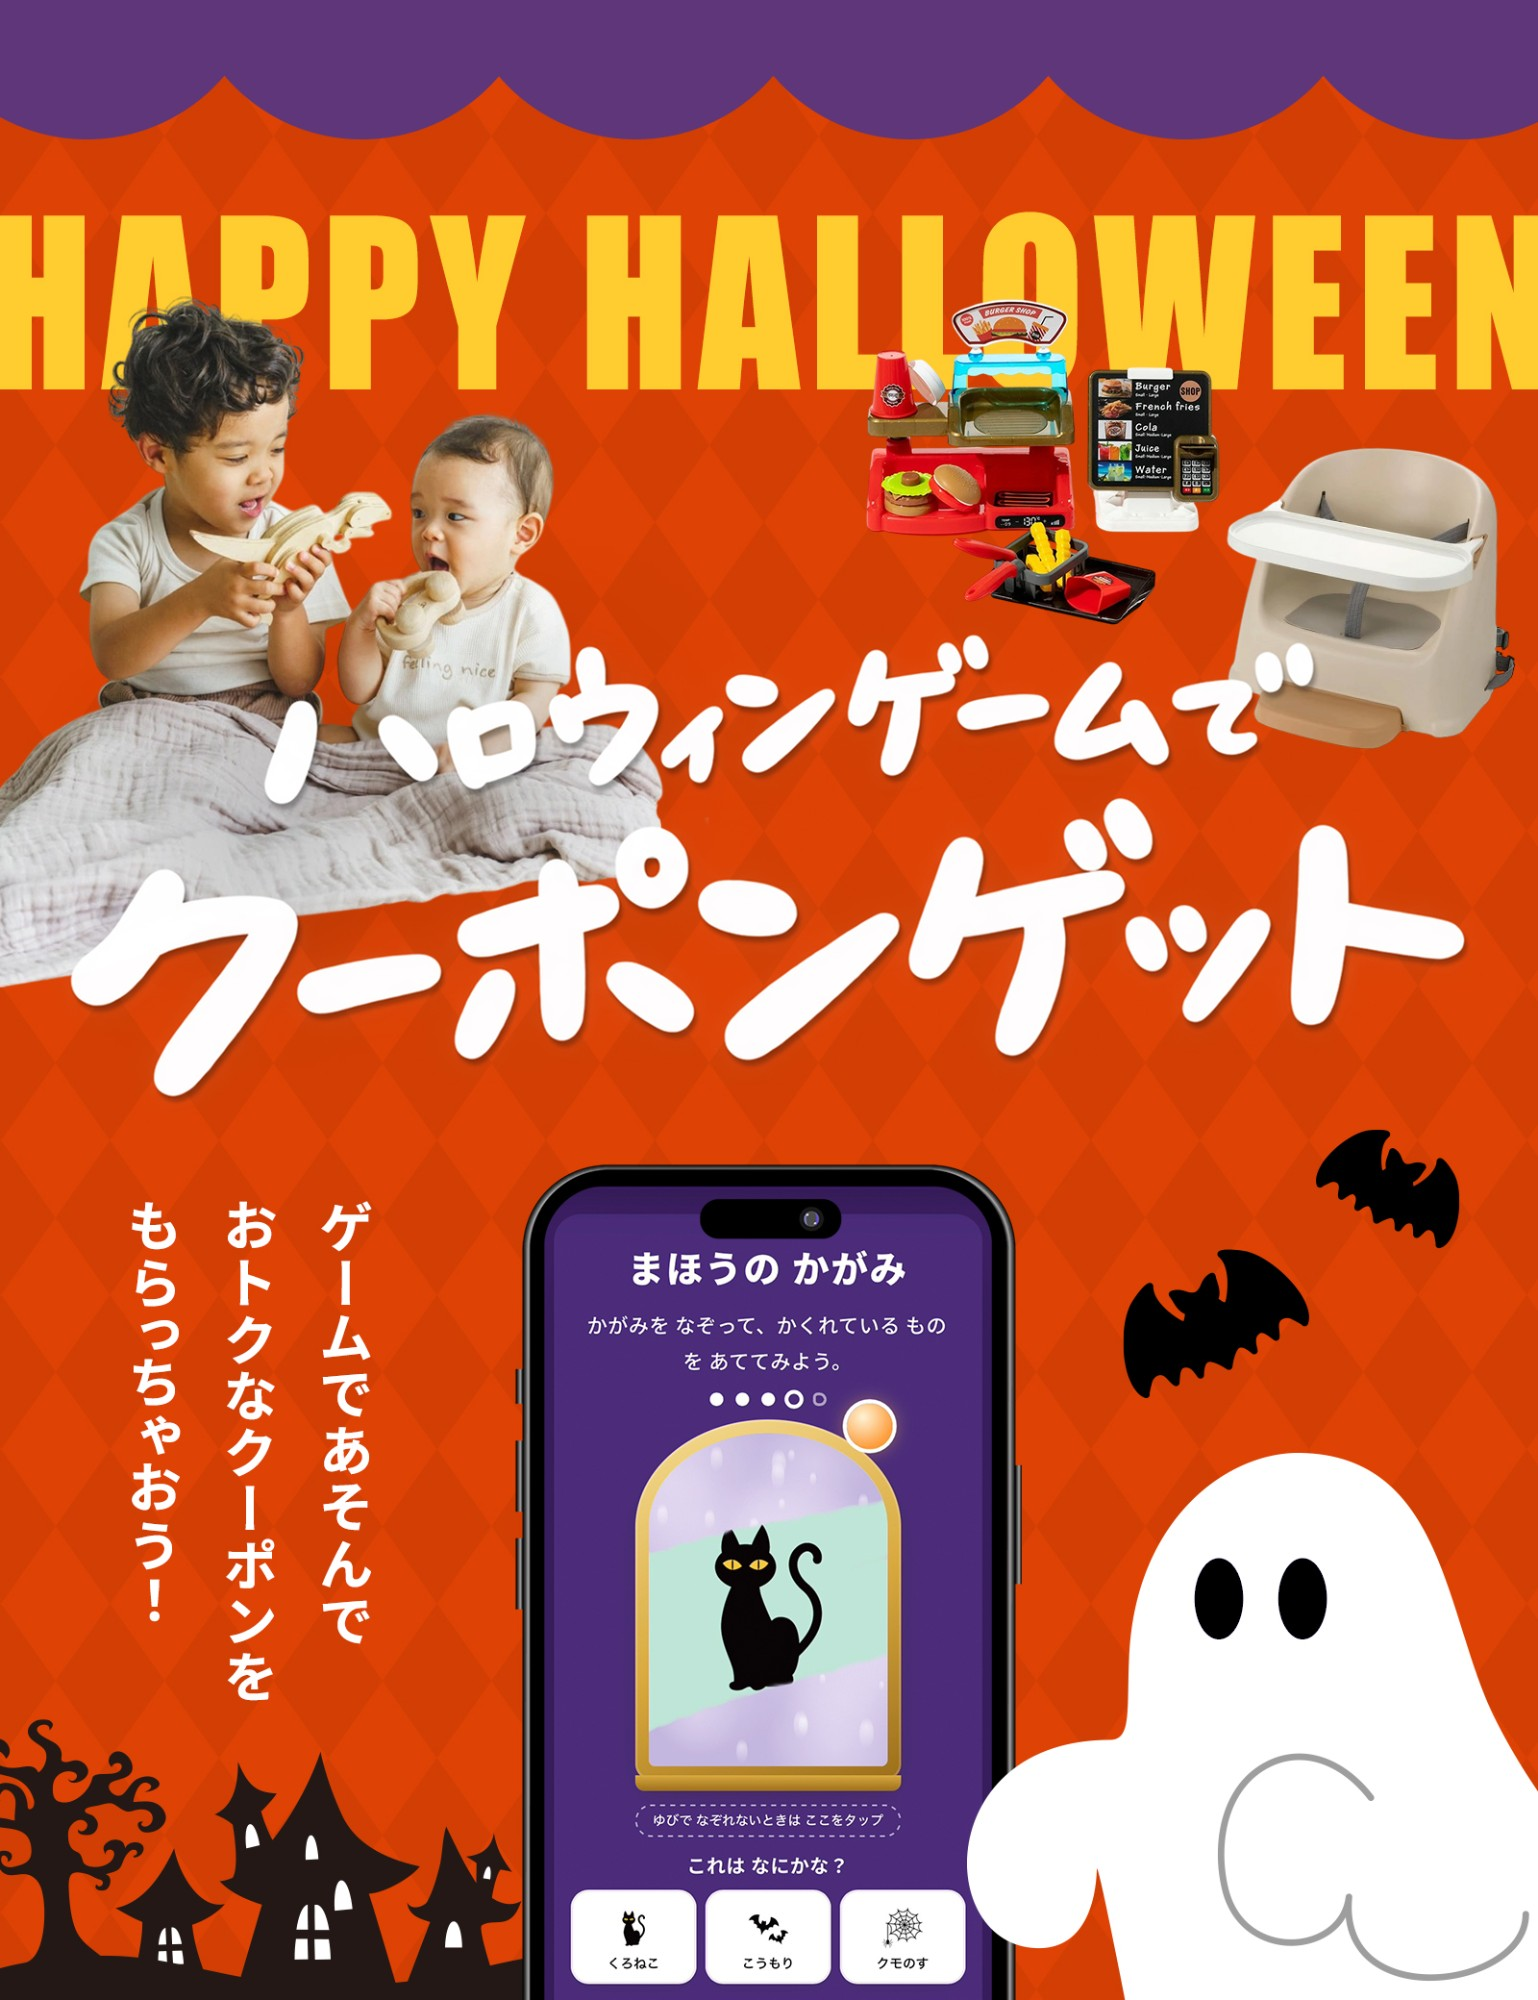
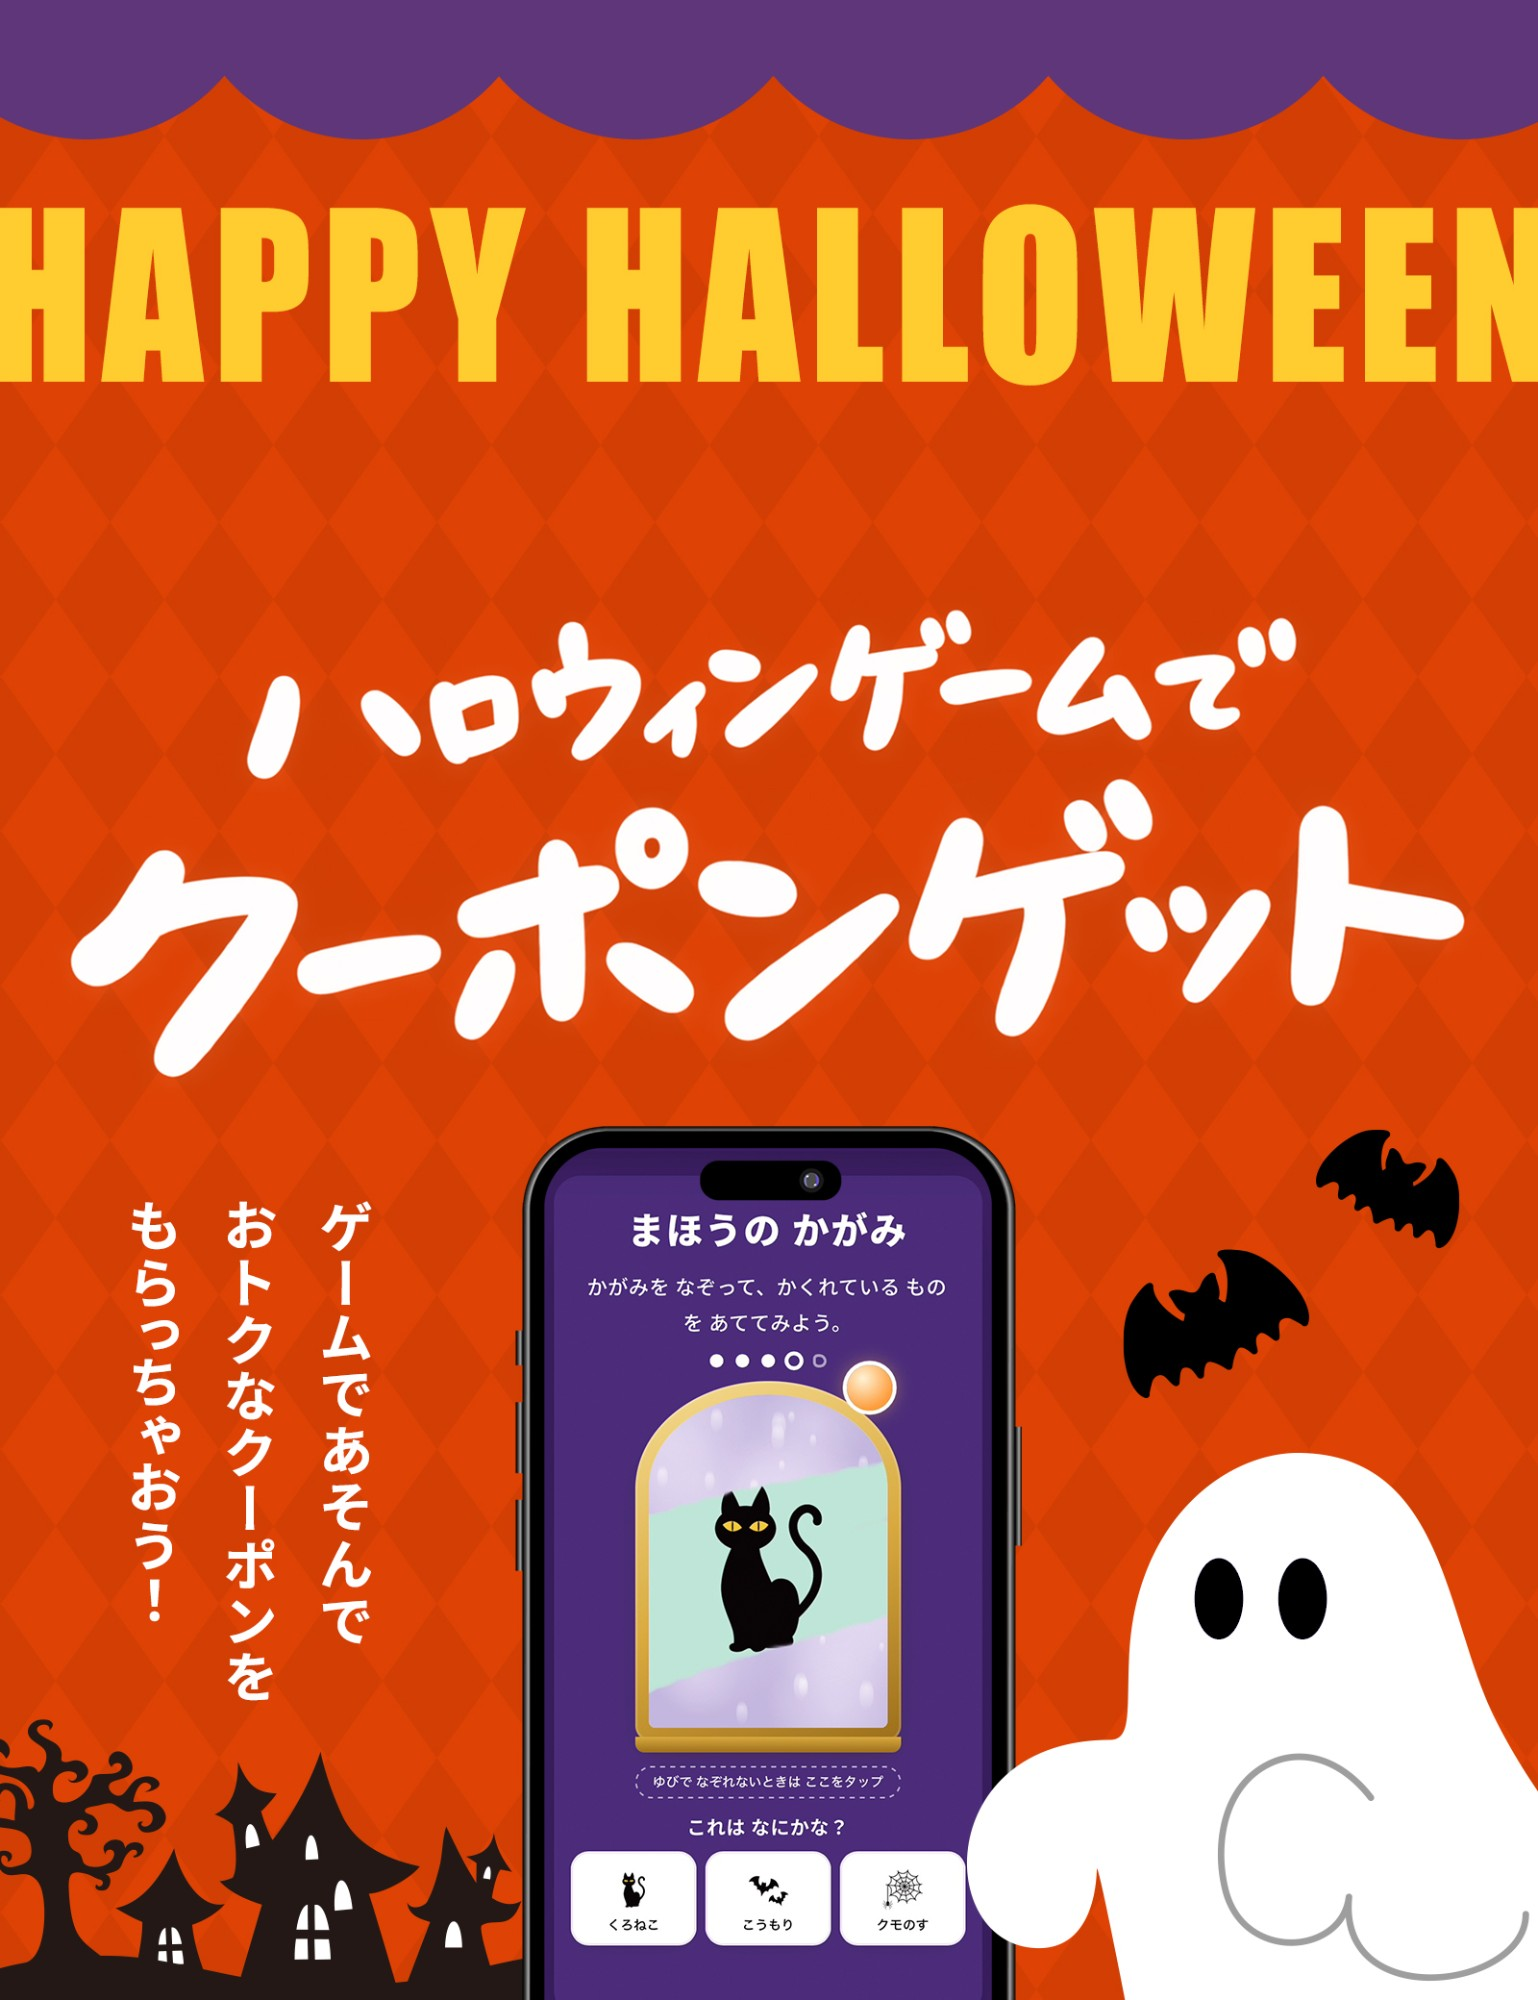
ハロウィンLP: 看板画像を差し替え、切り抜き商品が横に流れる演出を追加

diff --git a/index-halloween.html b/index-halloween.html
@@ -91,6 +91,38 @@
     position:relative;
   }
   .fv-banner{ display:block; width:100%; height:auto; }
+  .fv-visual{ position:relative; }
+  /* 「HAPPY HALLOWEEN」には重ねてOK、下のタイトル（画像の高さ30.5%〜）には重ねない */
+  .fv-marquee{
+    position:absolute;
+    left:0; right:0;
+    top:10%;
+    height:19%;
+    overflow:hidden;
+    pointer-events:none;
+  }
+  .fv-track{
+    display:flex;
+    align-items:flex-end;
+    width:max-content;
+    height:100%;
+    margin:0; padding:0;
+    list-style:none;
+    animation:fvMarquee 32s linear infinite;
+  }
+  .fv-track li{
+    height:100%;
+    display:flex;
+    align-items:flex-end;
+    padding-right:clamp(16px,5vw,36px);
+  }
+  .fv-track img{
+    height:var(--h);
+    width:auto;
+    filter:drop-shadow(0 4px 6px rgba(80,20,0,.35));
+  }
+  @keyframes fvMarquee{ from{ transform:translateX(0); } to{ transform:translateX(-50%); } }
+  @media (prefers-reduced-motion:reduce){ .fv-track{ animation:none; } }
   .sr-only{ position:absolute; width:1px; height:1px; margin:-1px; padding:0; overflow:hidden; clip:rect(0,0,0,0); white-space:nowrap; border:0; }
   .fv-kicker{
     display:inline-block;
@@ -445,7 +477,12 @@
 
 <section class="fv">
   <h1 class="sr-only">ハロウィンゲームでクーポンゲット</h1>
-  <img class="fv-banner" src="fv-halloween.jpg" width="1538" height="2000" alt="HAPPY HALLOWEEN ハロウィンゲームでクーポンゲット ゲームであそんでおトクなクーポンをもらっちゃおう！" fetchpriority="high">
+  <div class="fv-visual">
+    <img class="fv-banner" src="fv-halloween.jpg" width="1538" height="2000" alt="HAPPY HALLOWEEN ハロウィンゲームでクーポンゲット ゲームであそんでおトクなクーポンをもらっちゃおう！" fetchpriority="high">
+    <div class="fv-marquee" aria-hidden="true">
+      <ul class="fv-track"><li style="--h:100%"><img src="fv-items/bgoods-00187.webp" alt="" loading="eager"></li><li style="--h:78%"><img src="fv-items/toy-00043.webp" alt="" loading="eager"></li><li style="--h:72%"><img src="fv-items/bgoods-00120.webp" alt="" loading="eager"></li><li style="--h:66%"><img src="fv-items/goods-961.webp" alt="" loading="eager"></li><li style="--h:56%"><img src="fv-items/bgoods-00338.webp" alt="" loading="eager"></li><li style="--h:100%"><img src="fv-items/bgoods-00035.webp" alt="" loading="eager"></li><li style="--h:62%"><img src="fv-items/bgoods-00327.webp" alt="" loading="eager"></li><li style="--h:70%"><img src="fv-items/bgoods-00425.webp" alt="" loading="eager"></li><li style="--h:100%"><img src="fv-items/bgoods-00461.webp" alt="" loading="eager"></li><li style="--h:100%"><img src="fv-items/bgoods-00187.webp" alt="" loading="eager"></li><li style="--h:78%"><img src="fv-items/toy-00043.webp" alt="" loading="eager"></li><li style="--h:72%"><img src="fv-items/bgoods-00120.webp" alt="" loading="eager"></li><li style="--h:66%"><img src="fv-items/goods-961.webp" alt="" loading="eager"></li><li style="--h:56%"><img src="fv-items/bgoods-00338.webp" alt="" loading="eager"></li><li style="--h:100%"><img src="fv-items/bgoods-00035.webp" alt="" loading="eager"></li><li style="--h:62%"><img src="fv-items/bgoods-00327.webp" alt="" loading="eager"></li><li style="--h:70%"><img src="fv-items/bgoods-00425.webp" alt="" loading="eager"></li><li style="--h:100%"><img src="fv-items/bgoods-00461.webp" alt="" loading="eager"></li></ul>
+    </div>
+  </div>
   <div class="fv-actions">
     <a class="fv-scroll is-play" href="#game">ゲームでクーポンをもらう
       <svg viewBox="0 0 24 24" fill="none" stroke="currentColor" stroke-width="2.5" stroke-linecap="round"><path d="M12 4v16M5 13l7 7 7-7"/></svg>
